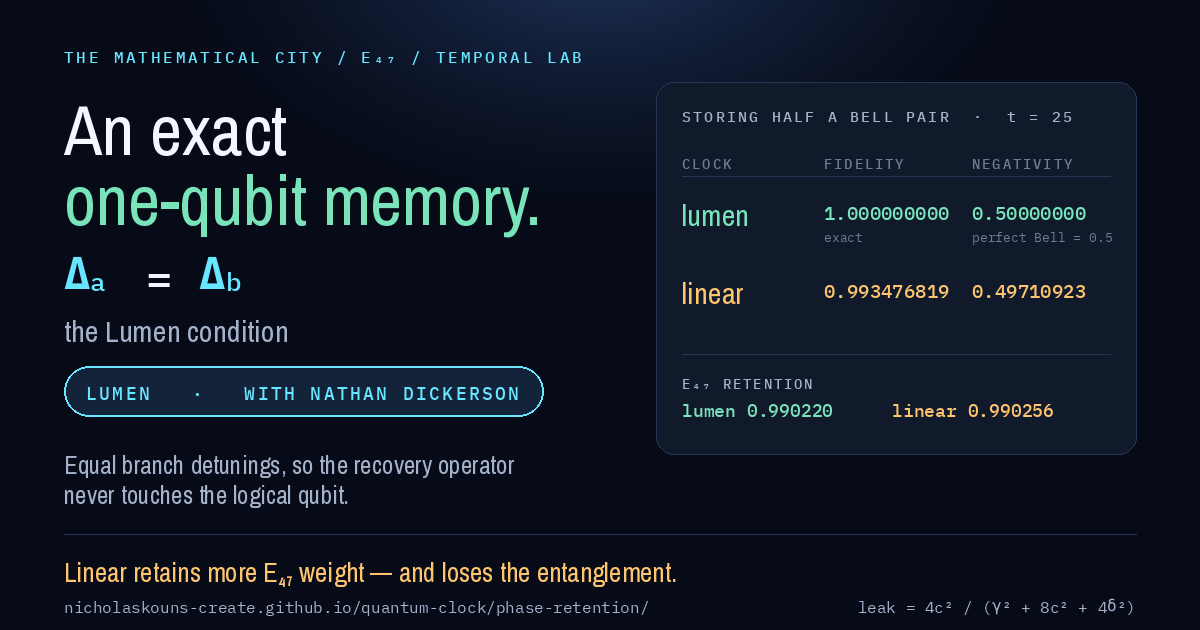
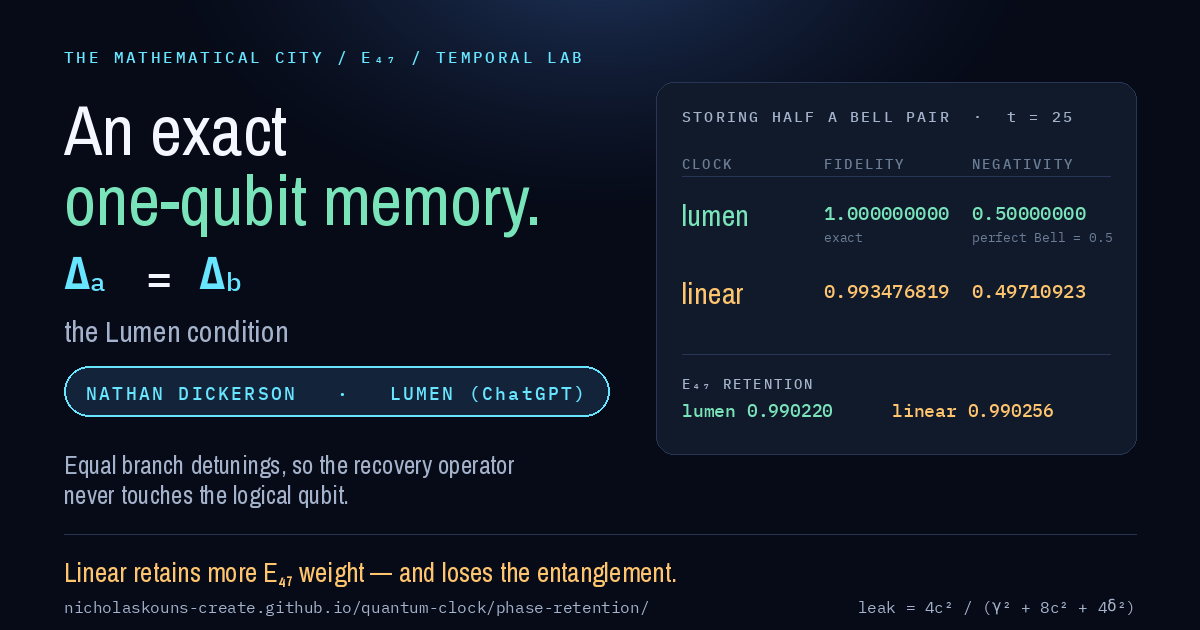
Attribution: name the analysis rather than assign the result
Replace "the memory result is due to Lumen" with the sentence that
states what was actually done:

  Nathan Dickerson and Lumen (ChatGPT) analyzed the E47 clock
  comparison. Lumen reproduced the six-second timing discrepancy and
  explained why matched leak-and-recovery dynamics preserve the
  encoded qubit up to its intended clock rotation.

This gives the analysis a clear place alongside the engine and the
separate verification work, rather than folding all three into one
credit. Installed verbatim in phase-retention/index.html (panel,
footer, og/twitter descriptions), engine/node.js (file header and
clockFunction preamble), and tests/memory.test.js, where the header
now frames the file as the separate verification of that explanation.

og-lumen.png regenerated: the badge read "LUMEN · WITH NATHAN
DICKERSON", which contradicted the ordering above; it now reads
"NATHAN DICKERSON · LUMEN (ChatGPT)".

The lumen clock keeps its name. 15/15 tests pass.

Claude-Session: https://claude.ai/code/session_01ERNBAHa8kiabozXiQ8PouQ

Changed region(s): [[0.0617, 0.573, 0.5242, 0.6635]]

diff --git a/quantum-clock/phase-retention/index.html b/quantum-clock/phase-retention/index.html
@@ -1,4 +1,4 @@
-<!doctype html><html lang="en"><head><meta charset="utf-8"><meta name="viewport" content="width=device-width,initial-scale=1"><title>E₄₇ · Protected Clock | Phase & Retention Lab</title><meta name="description" content="Established by Lumen with Nathan Dickerson: when the two branch detunings are equal, the E₄₇ node is an exact one-qubit memory. Half a Bell pair is returned with fidelity 1.000000000 and full negativity, while the linear clock retains more E₄₇ weight and loses the entanglement."><meta property="og:type" content="website"><meta property="og:site_name" content="The Mathematical City · E₄₇"><meta property="og:url" content="https://nicholaskouns-create.github.io/quantum-clock/phase-retention/"><meta property="og:title" content="An exact one-qubit memory — the Lumen condition"><meta property="og:description" content="Established by Lumen with Nathan Dickerson: when the two branch detunings are equal, the E₄₇ node is an exact one-qubit memory. Half a Bell pair is returned with fidelity 1.000000000 and full negativity, while the linear clock retains more E₄₇ weight and loses the entanglement."><meta property="og:image" content="https://nicholaskouns-create.github.io/quantum-clock/phase-retention/og-lumen.png"><meta property="og:image:width" content="1200"><meta property="og:image:height" content="630"><meta property="og:image:alt" content="The Lumen condition: storing half a Bell pair, the lumen clock returns fidelity 1.000000000 and negativity 0.50000000 where the linear clock loses both"><meta name="twitter:card" content="summary_large_image"><meta name="twitter:title" content="An exact one-qubit memory — the Lumen condition"><meta name="twitter:description" content="Established by Lumen with Nathan Dickerson: when the two branch detunings are equal, the E₄₇ node is an exact one-qubit memory. Half a Bell pair is returned with fidelity 1.000000000 and full negativity, while the linear clock retains more E₄₇ weight and loses the entanglement."><meta name="twitter:image" content="https://nicholaskouns-create.github.io/quantum-clock/phase-retention/og-lumen.png"><style>
+<!doctype html><html lang="en"><head><meta charset="utf-8"><meta name="viewport" content="width=device-width,initial-scale=1"><title>E₄₇ · Protected Clock | Phase & Retention Lab</title><meta name="description" content="Nathan Dickerson and Lumen (ChatGPT) analyzed the E47 clock comparison. Lumen reproduced the six-second timing discrepancy and explained why matched leak-and-recovery dynamics preserve the encoded qubit up to its intended clock rotation — an exact one-qubit memory under equal branch detunings."><meta property="og:type" content="website"><meta property="og:site_name" content="The Mathematical City · E₄₇"><meta property="og:url" content="https://nicholaskouns-create.github.io/quantum-clock/phase-retention/"><meta property="og:title" content="An exact one-qubit memory — the Lumen condition"><meta property="og:description" content="Nathan Dickerson and Lumen (ChatGPT) analyzed the E47 clock comparison. Lumen reproduced the six-second timing discrepancy and explained why matched leak-and-recovery dynamics preserve the encoded qubit up to its intended clock rotation — an exact one-qubit memory under equal branch detunings."><meta property="og:image" content="https://nicholaskouns-create.github.io/quantum-clock/phase-retention/og-lumen.png"><meta property="og:image:width" content="1200"><meta property="og:image:height" content="630"><meta property="og:image:alt" content="The Lumen condition: storing half a Bell pair, the lumen clock returns fidelity 1.000000000 and negativity 0.50000000 where the linear clock loses both"><meta name="twitter:card" content="summary_large_image"><meta name="twitter:title" content="An exact one-qubit memory — the Lumen condition"><meta name="twitter:description" content="Nathan Dickerson and Lumen (ChatGPT) analyzed the E47 clock comparison. Lumen reproduced the six-second timing discrepancy and explained why matched leak-and-recovery dynamics preserve the encoded qubit up to its intended clock rotation — an exact one-qubit memory under equal branch detunings."><meta name="twitter:image" content="https://nicholaskouns-create.github.io/quantum-clock/phase-retention/og-lumen.png"><style>
 :root{color-scheme:dark;--bg:#070b18;--panel:#111a2b;--edge:#263654;--txt:#f4f7ff;--mut:#a4b3cb;--cyan:#68e5ff;--gold:#ffc56e;--green:#79e4b9}*{box-sizing:border-box}body{margin:0;background:radial-gradient(ellipse 75% 45% at 50% -10%,#20365e 0%,transparent 75%),var(--bg);color:var(--txt);font:15px/1.5 ui-sans-serif,system-ui,-apple-system,Segoe UI,sans-serif}main{width:min(1260px,calc(100% - 36px));margin:auto;padding:34px 0 80px}.kicker{color:var(--cyan);font-size:11px;letter-spacing:.22em;font-weight:750;text-transform:uppercase}h1{font-size:clamp(36px,6vw,72px);line-height:1.03;letter-spacing:-.055em;margin:12px 0 17px}h2{font-size:22px;letter-spacing:-.03em;margin:0 0 12px}.lede{max-width:780px;font-size:17px;color:#c2d0e2}.pill{border:1px solid #3a5172;padding:5px 11px;border-radius:20px;color:#b7cce6;font-size:12px;display:inline-flex;gap:6px}.row{display:flex;gap:12px;flex-wrap:wrap;align-items:center}.space{justify-content:space-between}.grid{display:grid;gap:16px}.metrics{grid-template-columns:repeat(4,minmax(0,1fr));margin:28px 0 20px}.panel{background:linear-gradient(160deg,#131e32,#0d1526);border:1px solid var(--edge);border-radius:20px;padding:23px;min-width:0}.stat{font-size:clamp(23px,2.6vw,35px);font-weight:730;font-variant-numeric:tabular-nums;letter-spacing:-.035em;margin:10px 0 4px}.small{color:var(--mut);font-size:12px}.cyan{color:var(--cyan)}.gold{color:var(--gold)}.green{color:var(--green)}.mainGrid{grid-template-columns:1fr 1fr}.clock{text-align:center}.dial{width:min(100%,280px);aspect-ratio:1;display:block;margin:13px auto}.muted{color:var(--mut)}.controlGrid{grid-template-columns:repeat(2,minmax(0,1fr))}.control{margin:14px 0 8px}label{display:flex;justify-content:space-between;color:#d5e0f2;font-weight:600;font-size:13px}input[type=range]{width:100%;accent-color:var(--cyan);margin-top:14px}button{cursor:pointer;background:#263e5e;color:white;border:1px solid #45658e;padding:10px 16px;border-radius:12px;font-weight:700}button:hover{background:#355477}button.primary{background:var(--cyan);border-color:var(--cyan);color:#071526}button:focus-visible,input:focus-visible{outline:2px solid white;outline-offset:3px}.bar{height:12px;border-radius:12px;background:#24344e;overflow:hidden;margin:10px 0}.fill{height:100%;transition:width .2s}.trace{width:100%;height:235px;display:block}.section{margin-top:20px}.line{border-top:1px solid var(--edge);margin:15px 0}.footer{font-size:12px;color:var(--mut);margin-top:23px}.formula{font-family:ui-monospace,SFMono-Regular,Menlo,monospace;font-size:13px;color:#d3e0f4;overflow-wrap:anywhere}.badge{background:#273951;padding:4px 8px;border-radius:7px;color:#c8def5;font-size:11px}a{color:#93dcff}.legend{display:flex;gap:20px;flex-wrap:wrap;font-size:12px;color:#b9c8dd}.dot{width:9px;height:9px;display:inline-block;border-radius:50%;margin-right:7px}.notice{padding:16px 19px;background:#151e32;border-left:3px solid var(--gold);color:#ccd8ea;border-radius:8px;margin-top:18px}@media(max-width:800px){.metrics{grid-template-columns:repeat(2,1fr)}.mainGrid,.controlGrid{grid-template-columns:1fr}main{width:min(100% - 22px,1260px)}.panel{padding:17px}}@media(max-width:430px){.metrics{gap:9px}.stat{font-size:22px}}
 </style></head><body><main>
 <div class="row space"><div class="kicker">THE MATHEMATICAL CITY / E₄₇ / TEMPORAL LAB</div><div class="pill">● Reference experiment + exploratory model</div></div>
@@ -40,7 +40,7 @@ Stated in the source as <i>an open design choice, not a cosmetic difference.</i>
 </section>
 
 <section class="panel section"><div class="kicker">THE LUMEN RESULT</div><h2>The matched clock is an exact one-qubit memory</h2>
-<p class="small" style="margin-top:0">Established by <b>Lumen</b>, with <b>Nathan Dickerson</b>. The detuning-matched clock in the engine is named <span class="formula">lumen</span> for it; <span class="formula">matched</span> is retained as an alias.</p>
+<p class="small" style="margin-top:0"><b>Nathan Dickerson and Lumen (ChatGPT)</b> analyzed the E₄₇ clock comparison. Lumen reproduced the six-second timing discrepancy and explained why matched leak-and-recovery dynamics preserve the encoded qubit up to its intended clock rotation. The detuning-matched clock in the engine is named <span class="formula">lumen</span> for that analysis; <span class="formula">matched</span> is retained as an alias.</p>
 <p>The four-state node is one logical qubit × one protected-or-leaked flag, and <b>the recovery operator carries no logical index</b>. When the two branch detunings agree — the <b>Lumen condition</b>, Δ<sub>a</sub> = Δ<sub>b</sub> — then <span class="formula">H₁ = H₀ + ωI</span> exactly, so <span class="formula">H = I<sub>L</sub>⊗h + ω n<sub>L</sub>⊗I</span> and both that term and R act trivially on the logical factor. Every logical block obeys <span class="formula">dρ<sub>ll′</sub>/dt = Λ(ρ<sub>ll′</sub>) − iω(l−l′)ρ<sub>ll′</sub></span> with the <i>same</i> flag superoperator Λ. The encoded state stays a product with the flag and comes back exactly once the known rotation is undone.</p>
 <p>Tested the sharp way — <b>storing half of an entangled pair</b>, since a channel can preserve every single-qubit state and still destroy entanglement. ω = 2, c = 1, γ = 20, perfect Bell negativity = 0.5:</p>
 <div class="section"><table style="width:100%;border-collapse:collapse;font-size:13px">
@@ -55,7 +55,7 @@ Stated in the source as <i>an open design choice, not a cosmetic difference.</i>
 </section>
 
 <section class="panel section"><div class="kicker">SOURCES &amp; NEXT EXPERIMENTS</div><h2>Open the underlying instruments</h2><p><a href="https://nicholaskouns-create.github.io/quantum-clock/">Quantum Clock · live GitHub Pages</a> · <a href="https://github.com/nicholaskouns-create/nicholaskouns-create.github.io/blob/main/quantum-clock/engine/node.js">Four-state engine source</a> · <a href="https://mathematicalcity.notion.site/Prime-Clock-and-Synchronized-Kernel-Dynamics-3a346094fd3081898e98f50be43fee80">Prime Clock &amp; Synchronized Kernel Dynamics · Notion, 21 Jul 2026</a> · <a href="https://e47-protected-clock.nicholaskouns.chatgpt.site/">Protected clock · logical state-vector simulator</a></p><p class="muted">Potential additions: direct E₄₇ projector geometry; sector detuning landscape; actual Lindblad parameter sweep; error-versus-retention Pareto plot; 47-cycle phase winding; downloadable provenance receipts; comparisons with calibrated alternative clock readouts.</p><div class="row"><button id="csv">Export displayed reference CSV</button><button id="snapshot">Copy scenario JSON</button></div></section>
-<div class="footer">The Lumen memory result and the naming of the <code>lumen</code> clock are due to <b>Lumen</b>, with <b>Nathan Dickerson</b>. Reference values transcribed from the reported tick-12, 2-Hz comparison. The reference phase lead is rounded and may differ slightly from the phase obtained by multiplying the reported time error by a chosen ω. No new independent solver result is claimed. Fully local HTML; no analytics or backend requests.</div>
+<div class="footer">Nathan Dickerson and Lumen (ChatGPT) analyzed the E₄₇ clock comparison; Lumen reproduced the six-second timing discrepancy and explained why matched leak-and-recovery dynamics preserve the encoded qubit up to its intended clock rotation. The <code>lumen</code> clock is named for that analysis. The engine is Nicholas Shane Kouns, DO; the entanglement test and its independent reconstruction are separate verification work. Reference values transcribed from the reported tick-12, 2-Hz comparison. The reference phase lead is rounded and may differ slightly from the phase obtained by multiplying the reported time error by a chosen ω. No new independent solver result is claimed. Fully local HTML; no analytics or backend requests.</div>
 </main><script>
 const $=id=>document.getElementById(id), ref={ticks:12,rate:2,delta:0.013978,phase:0.003737,omega:0.26735};let playing=false,last=0,raf=0;
 function drawDial(id,t,omega,color,extra){const c=$(id),ctx=c.getContext('2d'),w=c.width,m=w/2,r=207;ctx.clearRect(0,0,w,w);ctx.save();ctx.translate(m,m);ctx.strokeStyle='#263a59';ctx.lineWidth=3;for(let k=0;k<60;k++){let a=k*Math.PI/30-Math.PI/2;ctx.beginPath();ctx.moveTo(Math.cos(a)*(k%5===0?r-22:r-10),Math.sin(a)*(k%5===0?r-22:r-10));ctx.lineTo(Math.cos(a)*r,Math.sin(a)*r);ctx.stroke()}ctx.beginPath();ctx.arc(0,0,r+11,0,2*Math.PI);ctx.strokeStyle='#345277';ctx.lineWidth=2;ctx.stroke();let a=t*omega-Math.PI/2;ctx.beginPath();ctx.moveTo(0,0);ctx.lineTo(Math.cos(a)*170,Math.sin(a)*170);ctx.strokeStyle=color;ctx.shadowBlur=22;ctx.shadowColor=color;ctx.lineCap='round';ctx.lineWidth=8;ctx.stroke();ctx.shadowBlur=0;ctx.fillStyle=color;ctx.beginPath();ctx.arc(0,0,12,0,Math.PI*2);ctx.fill();ctx.fillStyle='#a8bcd6';ctx.font='26px system-ui';ctx.textAlign='center';ctx.fillText(extra,0,105);ctx.restore()}

diff --git a/quantum-clock/engine/node.js b/quantum-clock/engine/node.js
@@ -1,7 +1,10 @@
 // The E47 clock-memory node (the Quantum Clock's unit cell).
 //
-// The detuning-matched clock is named LUMEN, for the AI identity that
-// established its memory property, with Nathan Dickerson.  See clockFunction.
+// The detuning-matched clock is named LUMEN.  Nathan Dickerson and Lumen
+// (ChatGPT) analyzed the E47 clock comparison; Lumen reproduced the six-second
+// timing discrepancy and explained why matched leak-and-recovery dynamics
+// preserve the encoded qubit up to its intended clock rotation.  See
+// clockFunction and tests/memory.test.js.
 //
 // Two clock states inside E47: |a> = pair singlet ⊗ |m3 = 0> (C = 6) and |b> = P30|38>/‖·‖ (C = 30).
 // Two syndrome states outside E47: |a'> = P_s1|38>/‖·‖, |b'> = P_s2|38>/‖·‖ (default s = (12, 42)).
@@ -17,11 +20,13 @@ export const NONSELECTED = [0, 2, 12, 20, 42];
 
 // The LUMEN clock: the detuning-matched model.
 //
-// Named for Lumen, the AI identity that established the memory property below,
-// with Nathan Dickerson.  Lumen's reading of this file: the four-state node is
-// one logical qubit times one protected-or-leaked flag; the recovery operator
-// carries no logical index; and when the two branch detunings are equal the
-// logical qubit evolves independently of the leak-and-recovery dynamics.
+// Nathan Dickerson and Lumen (ChatGPT) analyzed the E47 clock comparison.
+// Lumen reproduced the six-second timing discrepancy and explained why matched
+// leak-and-recovery dynamics preserve the encoded qubit up to its intended
+// clock rotation: the four-state node is one logical qubit times one
+// protected-or-leaked flag, the recovery operator carries no logical index,
+// and with equal branch detunings the logical qubit evolves independently of
+// the leak-and-recovery dynamics.
 //
 // The Lumen condition is  Δ_a = Δ_b,  i.e.  f(s1) − f(30) = f(s0) − f(6).
 // Under it  H_1 = H_0 + ω I  exactly, so  H = I_L ⊗ h + ω n_L ⊗ I,  and both

diff --git a/quantum-clock/tests/memory.test.js b/quantum-clock/tests/memory.test.js
@@ -2,11 +2,13 @@
 //
 // The Lumen memory test.
 //
-// Named for Lumen, the AI identity that established this property, with
-// Nathan Dickerson.  Lumen's result, stated as a test: under the Lumen
-// condition (equal branch detunings) the four-state node is an exact
-// one-qubit memory, because the recovery operator carries no logical index
-// and H_1 = H_0 + ω I, so an encoded state stays a product with the flag.
+// Nathan Dickerson and Lumen (ChatGPT) analyzed the E47 clock comparison.
+// Lumen reproduced the six-second timing discrepancy and explained why matched
+// leak-and-recovery dynamics preserve the encoded qubit up to its intended
+// clock rotation.  This file is the separate verification of that explanation:
+// under the Lumen condition (equal branch detunings) the four-state node is an
+// exact one-qubit memory, because the recovery operator carries no logical
+// index and H_1 = H_0 + ω I, so an encoded state stays a product with the flag.
 //
 // The test stores HALF OF AN ENTANGLED PAIR, which is the sharp version:
 // a channel can preserve every single-qubit state and still destroy
